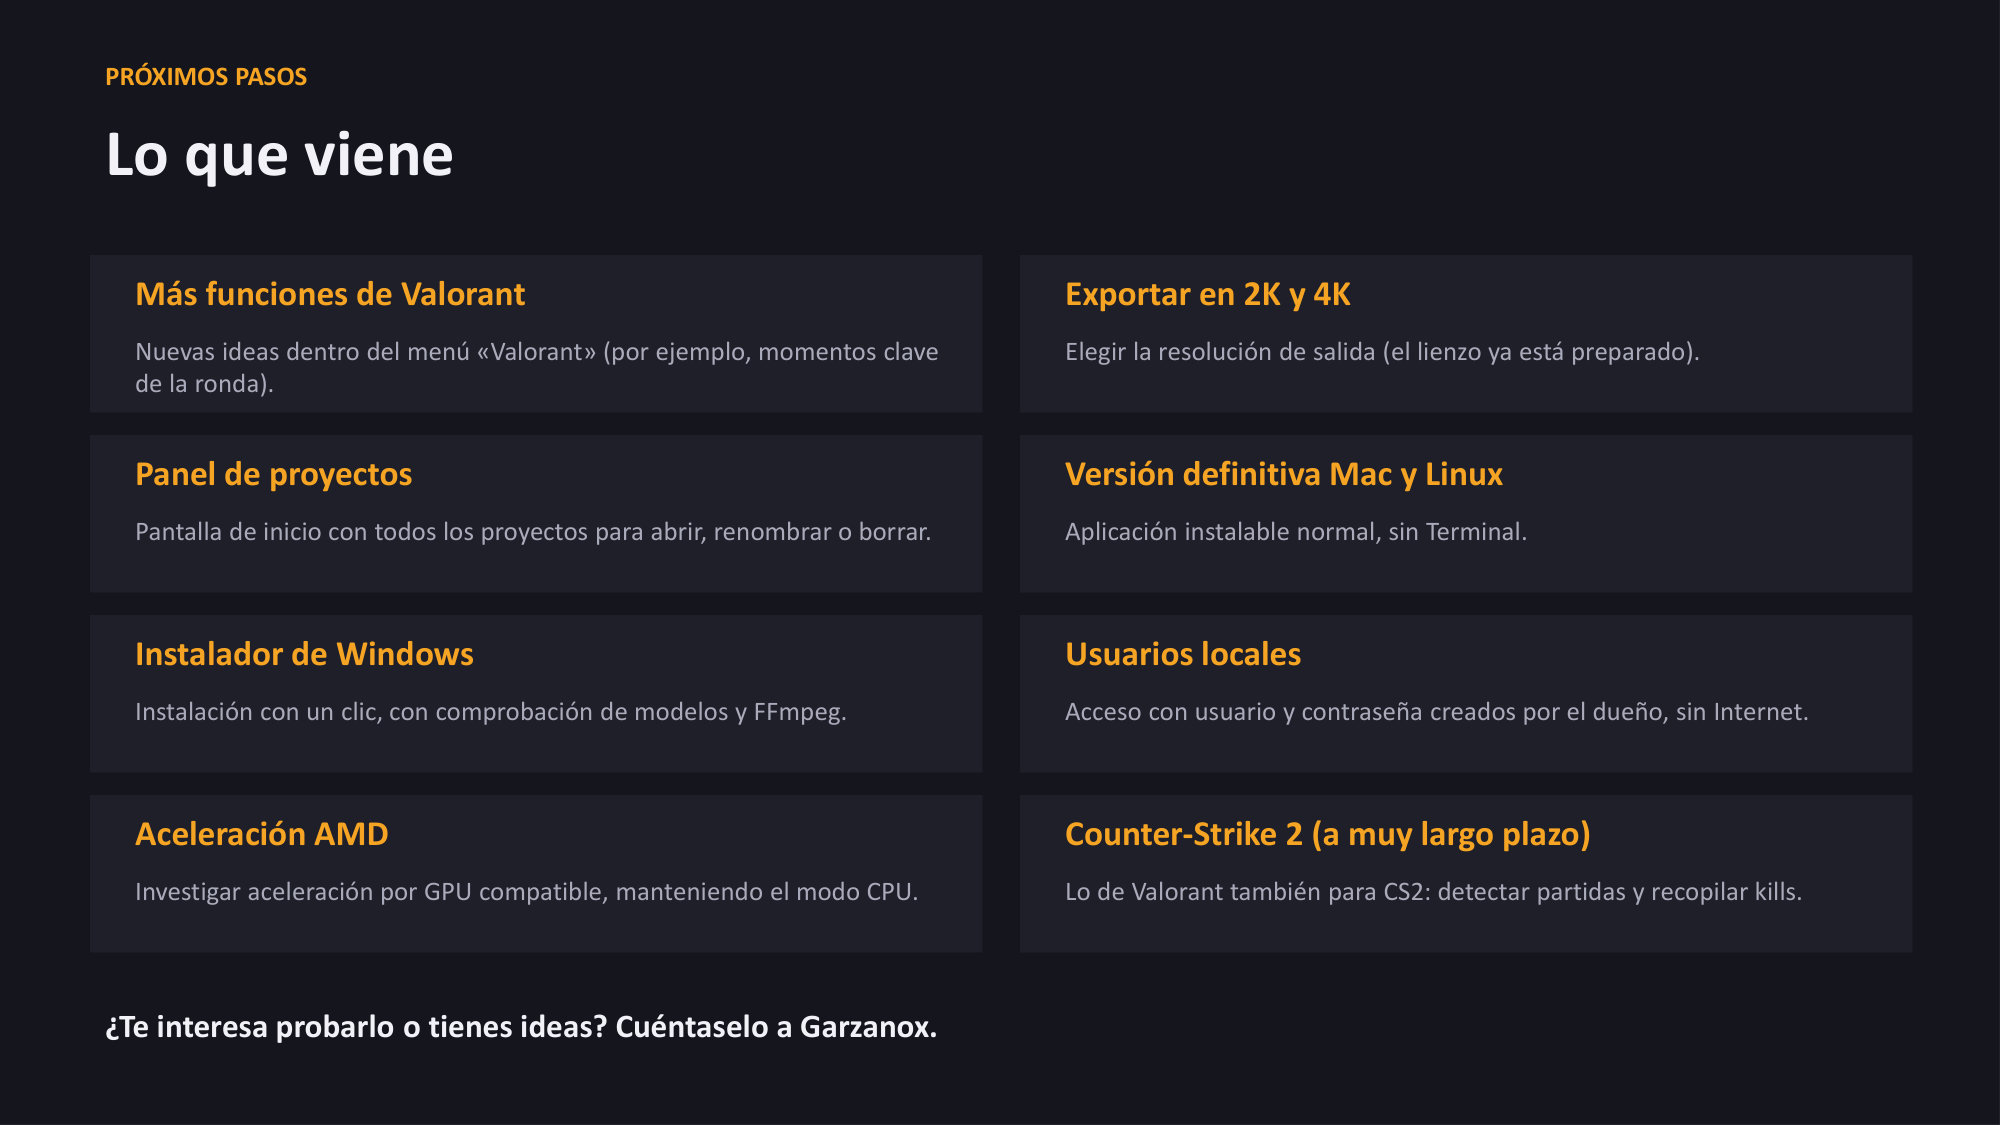
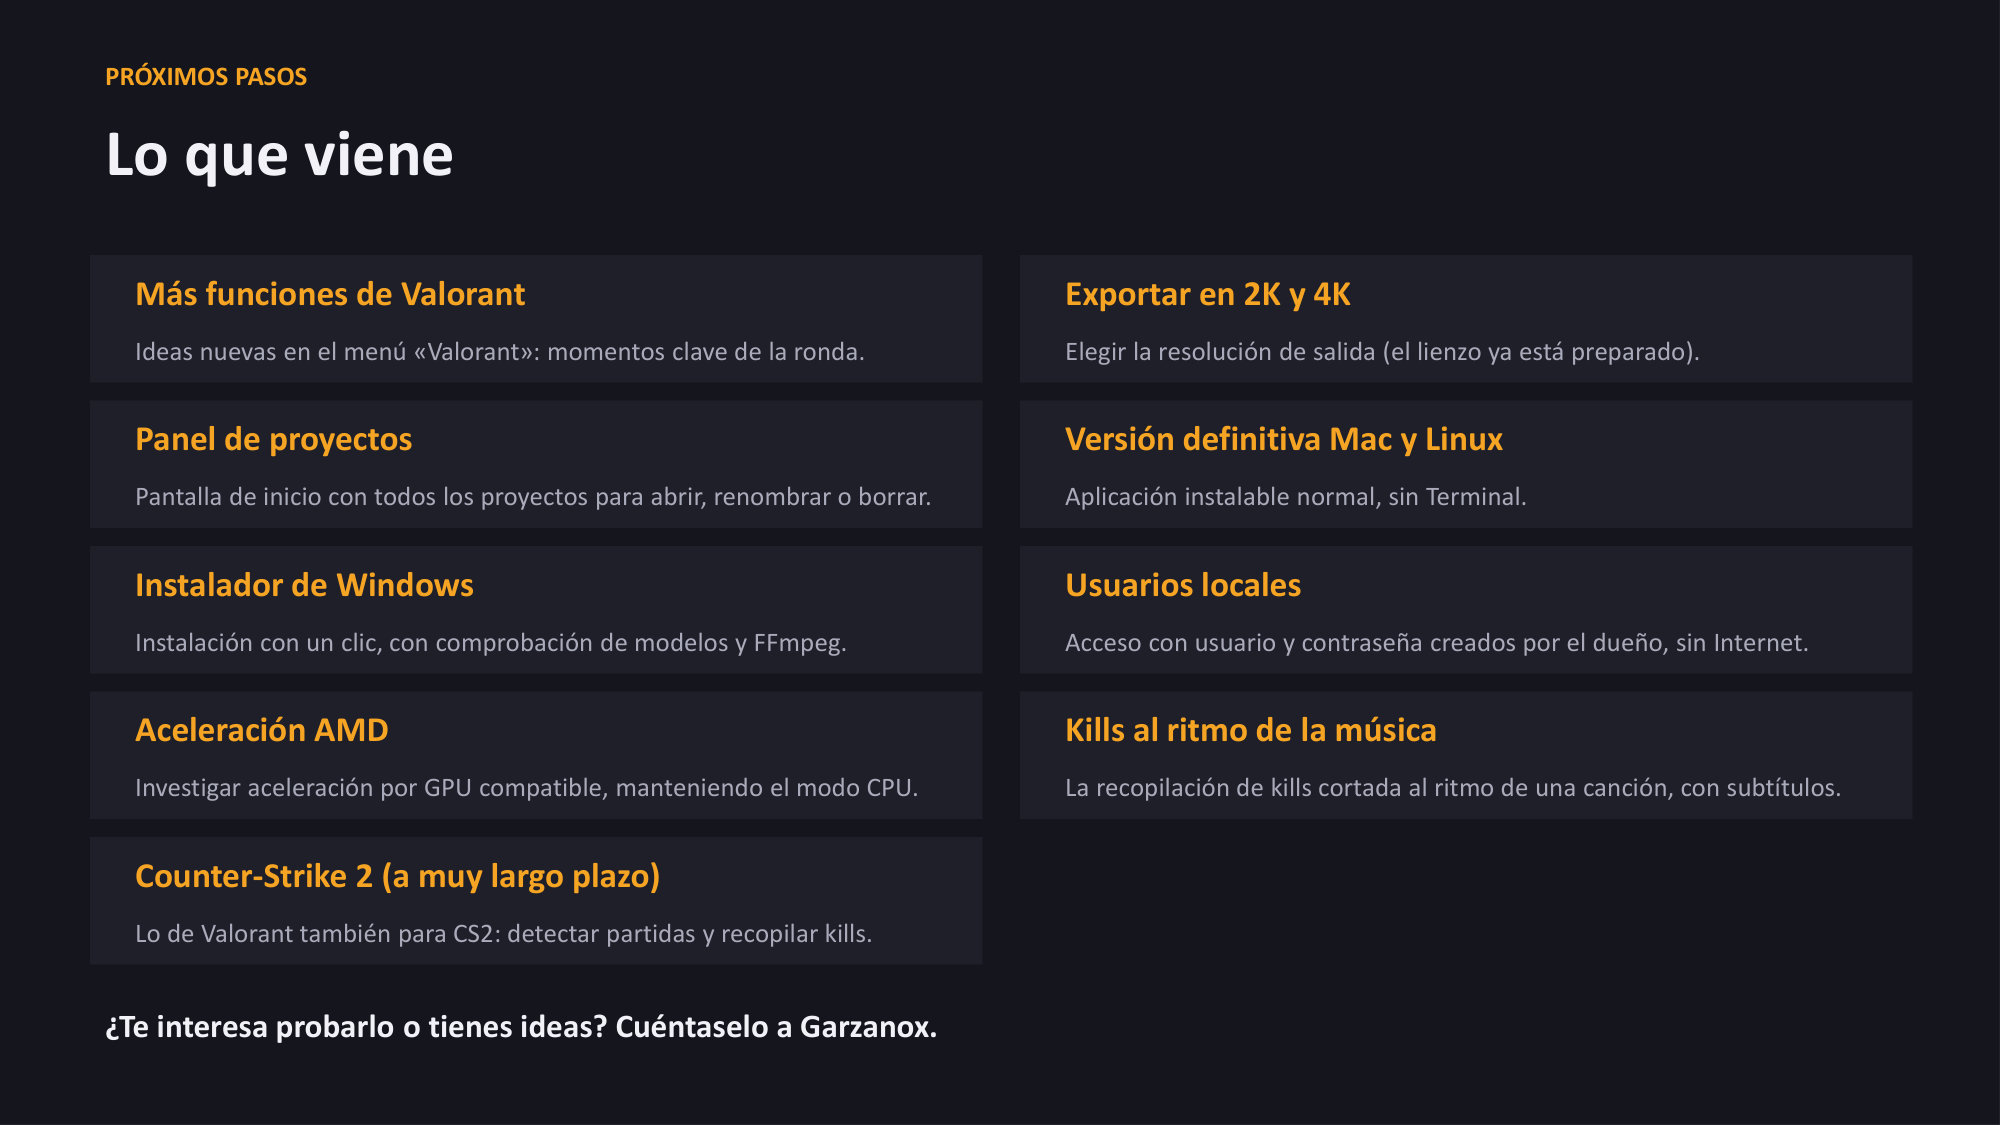
Presentación actualizada (05/11/2026)

diff --git a/index.html b/index.html
@@ -82,7 +82,7 @@ button:focus-visible { outline: 2px solid var(--amber); outline-offset: 2px; }
     <img src="diapositivas/13.jpg?v=cd964af2aa" alt="Diapositiva 13: WINDOWS Y MAC También en Mac Captura real en el Mac de la editora Acción Mac Deshacer / rehacer ⌘Z / ⌘⇧Z Cortar en el cabezal ⌘B Juntar palabras en una frase ⌘J">
     <img src="diapositivas/14.jpg?v=f3c6e85cc7" alt="Diapositiva 14: CÓMO SE HA HECHO 5 días, 60 avances 30/10 · 14:07 Primera exportación 30/10 · 16:27 Estilos y modo pop 30/10 · 17:15 Línea de tiempo 30/10 · 21:02 Montaje 31/10">
     <img src="diapositivas/15.jpg?v=349653f03e" alt="Diapositiva 15: RESULTADOS En números 5 días del prototipo a editor de vídeo (30/10 a 04/11/2026) 60 avances en la cronología, cada uno probado 13 s para encontrar las 11 parti">
-    <img src="diapositivas/16.jpg?v=ababc996fc" alt="Diapositiva 16: PRÓXIMOS PASOS Lo que viene Más funciones de Valorant Nuevas ideas dentro del menú «Valorant» (por ejemplo, momentos clave de la ronda). Exportar en 2K y 4K Ele">
+    <img src="diapositivas/16.jpg?v=2854fc4740" alt="Diapositiva 16: PRÓXIMOS PASOS Lo que viene Más funciones de Valorant Ideas nuevas en el menú «Valorant»: momentos clave de la ronda. Exportar en 2K y 4K Elegir la resolución d">
     <img src="diapositivas/17.jpg?v=0330113145" alt="Diapositiva 17: PARA CURIOSOS Cómo está hecho Python 3.13 Lenguaje de toda la aplicación. PySide6 (Qt 6.12) Interfaz de escritorio, vista previa y reproducción. Faster-Whisper ">
     <button class="side prev" id="sidePrev" aria-label="Diapositiva anterior"></button>
     <button class="side next" id="sideNext" aria-label="Diapositiva siguiente"></button>
